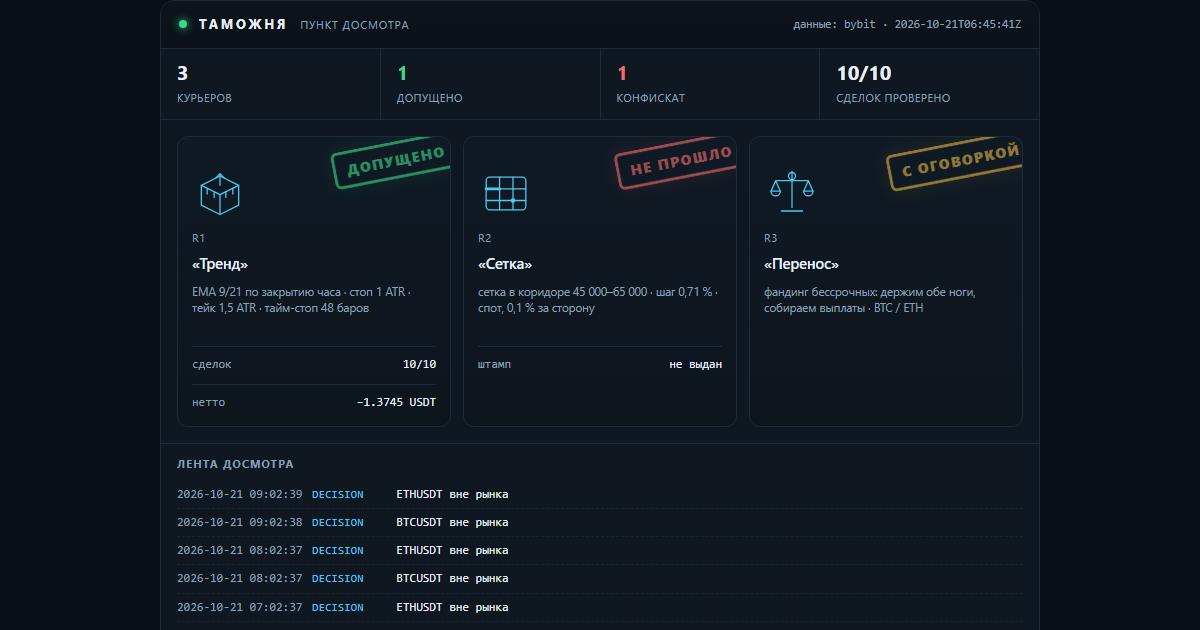
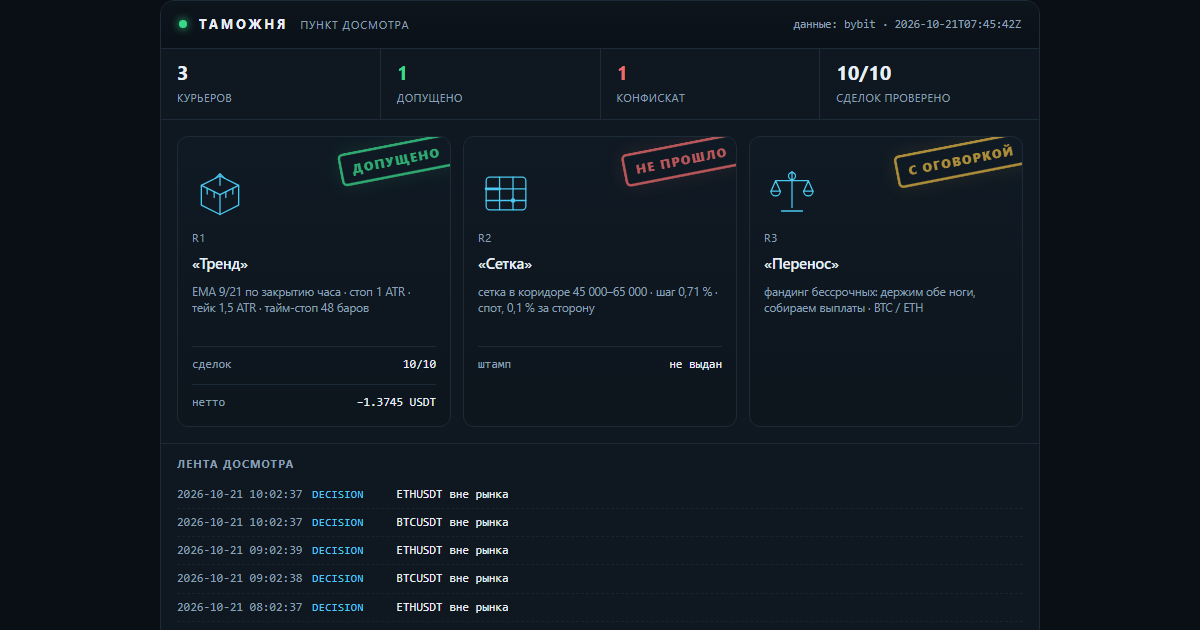
lab: таможня — свежие числа досмотра

Changed region(s): [[0.74, 0.2111, 0.8633, 0.3016], [0.4933, 0.2111, 0.6167, 0.3016], [0.2775, 0.2111, 0.37, 0.3016]]

diff --git a/docs/customs.html b/docs/customs.html
@@ -16,7 +16,7 @@
   <h1><a href="index.html">Gramwright Lab</a></h1>
   <p>Журнал проверки торговых гипотез: что проверяли, что вышло по факту, сколько съели издержки. Числа берутся из журнала стенда. Не инвестиционная рекомендация.</p>
 </header>
-<h1>Таможня</h1><p class="intro">Пункт досмотра заявленных результатов. Стратегии приезжают с грузом обещаний, и каждая проходит проверку по публичным данным биржи: цены существуют, комиссии по тарифу, нетто сходится. Что прошло — получает штамп. Что не прошло — в конфискат, с причиной. Штамп означает «записи подлинные», а не «стратегия прибыльна».</p><p><img src="img/customs.png" alt="Терминал досмотра: три курьера, штампы, лента событий" style="width:100%;height:auto;border:1px solid var(--line);border-radius:10px"></p><p class="c-note">Сверху — тот же терминал, что собирается из журналов: счётчики, эмблемы курьеров, штампы и лента последних событий. Ниже — то же самое текстом, чтобы читалось с телефона и индексировалось поиском.</p><article><h2>R1 «Тренд» <span class="verdict">— <span class="c-ok">допущено</span></span></h2><p><strong>Правило:</strong> EMA 9/21 по закрытию часа · стоп 1 ATR · тейк 1,5 ATR · тайм-стоп 48 баров</p><p><strong>Декларация:</strong> Заявлено до прогона: держать 30 сделок, лимит нотионала 10 % от счёта, стоп дня −1 %. Прибыль не заявлялась — это важно: курьер не обещал доход.</p><p><strong>Проверено по публичным свечам, без ключей:</strong> 10 из 10 сделок. Сумма нетто −1.3745 USDT.</p><ul class="c-chk"><li class="y">BTCUSDT: нетто −0.8746 USDT · комиссии 0.0901 · проверено · с поправкой</li><li class="y">BTCUSDT: нетто −0.5441 USDT · комиссии 0.0896 · проверено</li><li class="y">ETHUSDT: нетто −0.2253 USDT · комиссии 0.0266 · проверено</li><li class="y">ETHUSDT: нетто −0.1513 USDT · комиссии 0.0265 · проверено</li><li class="y">ETHUSDT: нетто +0.1984 USDT · комиссии 0.0262 · проверено</li><li class="y">ETHUSDT: нетто +0.1617 USDT · комиссии 0.0260 · проверено</li><li class="y">ETHUSDT: нетто +0.2645 USDT · комиссии 0.0263 · проверено</li><li class="y">BTCUSDT: нетто +0.6246 USDT · комиссии 0.0897 · проверено</li><li class="y">BTCUSDT: нетто −0.5881 USDT · комиссии 0.0910 · проверено</li><li class="y">ETHUSDT: нетто −0.2403 USDT · комиссии 0.0270 · проверено</li></ul><p class="tags">журнал sha256 15f0e2ad50e50fe0… · проверяльщик verify-1</p><p class="c-note">Штамп означает: записи подлинные, а не что стратегия прибыльна. Курьер в минусе, и минус тоже стоит на штампе — иначе это была бы не проверка, а реклама.</p><p class="tags">источник: verify-report.json</p></article><article><h2>R2 «Сетка» <span class="verdict">— <span class="c-bad">не прошло</span></span></h2><p><strong>Правило:</strong> сетка в коридоре 45 000–65 000 · шаг 0,71 % · спот, 0,1 % за сторону</p><p><strong>Декларация:</strong> Заявлено: «44 % урожая уходит бирже в виде комиссий». Кроме того — перевес над простым владением монетой.</p><p><strong>Что сошлось:</strong></p><ul class="c-chk"><li class="y">сами числа пересчитаны и воспроизводятся: коридор 45–65k был активен 23 % всей истории и 28 % последних двух лет</li></ul><p><strong>Что не сошлось:</strong></p><ul class="c-chk"><li class="n">44 % не подтвердилось: при шаге 0,71 % и тарифе 0,1 % комиссия съедает 28,3 % шага. Чтобы получить 44 %, нужен шаг 0,45 % — это около 80 уровней, а не 50</li><li class="n">от урожая доля комиссий 85,5 % за всю историю и 49,6 % за последние два года — тоже не 44 %</li><li class="n">перевес над владением посчитан на тарифе 0,055 %: при нём +1,32 п. п., на розничном 0,1 % — −0,72 п. п. То есть перевес исчезает</li><li class="n">семилетний тест стартовал в сентябре 2019 при биткоине около 10 000 — ниже коридора. Он говорит, что фиксированный коридор не подходит для периода, а не что сетка отстаёт</li></ul><p class="tags">источник: lab_grid.py, пересчёт 17.10.2026</p></article><article><h2>R3 «Перенос» <span class="verdict">— <span class="c-warn">с оговоркой</span></span></h2><p><strong>Правило:</strong> фандинг бессрочных: держим обе ноги, собираем выплаты · BTC / ETH</p><p><strong>Декларация:</strong> Заявлено: около 11,9 % в год от выплат фандинга при просадке выплатной кривой меньше 2 %.</p><p><strong>Что сошлось:</strong></p><ul class="c-chk"><li class="y">выплаты взяты из публичной истории биржи, ключей не нужно: BTC — 7 190 выплат с 25.03.2020, ETH — 6 561 с 21.10.2020</li><li class="y">сумма сходится: +83,4 % и +83,2 % за 6,6 и 6,0 года — те самые ~11,9 % в год</li><li class="y">худшая просадка выплатной кривой: −1,65 % и −1,97 %</li></ul><p><strong>Что не сошлось:</strong></p><ul class="c-chk"><li class="n">оговорка 1: премию сжали — 2021 год дал +38,3 %, 2026 — +1,96 %. Прошлое не повторяется</li><li class="n">оговорка 2: вход-выход стоит около 0,31 %, капитала нужно 1,2 от нотионала, текущий базис −0,082 % против входа</li><li class="n">оговорка 3: риск площадки. История FTX в этой же таблице выглядела так же прилично</li></ul><p class="tags">источник: публичная история фандинга Bybit, замер 17.10.2026</p></article><div class="c-conf"><h3>Конфискат</h3><p><strong>«Сетка»: заявленные 44 % комиссий не подтвердились.</strong> Досмотр показал 28,3 % от шага и 85,5 % от урожая — цифра хуже заявленной по форме, но лучше по смыслу: сетку убивает не размер шага, а то, что урожай почти весь уходит в комиссии. Это и вышло в выпуск — с поправкой, а не с красивой цифрой.</p></div><p class="c-note">Пломба: <code>2026-10-21T06:45:41Z</code> · нотариус FreeTSA · Oct 21 06:45:40 2026 GMT · подпись подтверждена. Манифест скрепляет отчёт проверки, журнал сделок и декларации курьеров: подменишь любую цифру — пломба перестанет сходиться.</p><p class="c-note">Досмотр идёт по публичным минутным свечам и публичной истории фандинга — ключей у проверяющего нет, и он может повторить проверку сам.</p><p class="c-note">Контент образовательный, не является инвестиционной рекомендацией. Торговля связана с риском потери капитала.</p>
+<h1>Таможня</h1><p class="intro">Пункт досмотра заявленных результатов. Стратегии приезжают с грузом обещаний, и каждая проходит проверку по публичным данным биржи: цены существуют, комиссии по тарифу, нетто сходится. Что прошло — получает штамп. Что не прошло — в конфискат, с причиной. Штамп означает «записи подлинные», а не «стратегия прибыльна».</p><p><img src="img/customs.png" alt="Терминал досмотра: три курьера, штампы, лента событий" style="width:100%;height:auto;border:1px solid var(--line);border-radius:10px"></p><p class="c-note">Сверху — тот же терминал, что собирается из журналов: счётчики, эмблемы курьеров, штампы и лента последних событий. Ниже — то же самое текстом, чтобы читалось с телефона и индексировалось поиском.</p><article><h2>R1 «Тренд» <span class="verdict">— <span class="c-ok">допущено</span></span></h2><p><strong>Правило:</strong> EMA 9/21 по закрытию часа · стоп 1 ATR · тейк 1,5 ATR · тайм-стоп 48 баров</p><p><strong>Декларация:</strong> Заявлено до прогона: держать 30 сделок, лимит нотионала 10 % от счёта, стоп дня −1 %. Прибыль не заявлялась — это важно: курьер не обещал доход.</p><p><strong>Проверено по публичным свечам, без ключей:</strong> 10 из 10 сделок. Сумма нетто −1.3745 USDT.</p><ul class="c-chk"><li class="y">BTCUSDT: нетто −0.8746 USDT · комиссии 0.0901 · проверено · с поправкой</li><li class="y">BTCUSDT: нетто −0.5441 USDT · комиссии 0.0896 · проверено</li><li class="y">ETHUSDT: нетто −0.2253 USDT · комиссии 0.0266 · проверено</li><li class="y">ETHUSDT: нетто −0.1513 USDT · комиссии 0.0265 · проверено</li><li class="y">ETHUSDT: нетто +0.1984 USDT · комиссии 0.0262 · проверено</li><li class="y">ETHUSDT: нетто +0.1617 USDT · комиссии 0.0260 · проверено</li><li class="y">ETHUSDT: нетто +0.2645 USDT · комиссии 0.0263 · проверено</li><li class="y">BTCUSDT: нетто +0.6246 USDT · комиссии 0.0897 · проверено</li><li class="y">BTCUSDT: нетто −0.5881 USDT · комиссии 0.0910 · проверено</li><li class="y">ETHUSDT: нетто −0.2403 USDT · комиссии 0.0270 · проверено</li></ul><p class="tags">журнал sha256 c792aabbdc803f97… · проверяльщик verify-1</p><p class="c-note">Штамп означает: записи подлинные, а не что стратегия прибыльна. Курьер в минусе, и минус тоже стоит на штампе — иначе это была бы не проверка, а реклама.</p><p class="tags">источник: verify-report.json</p></article><article><h2>R2 «Сетка» <span class="verdict">— <span class="c-bad">не прошло</span></span></h2><p><strong>Правило:</strong> сетка в коридоре 45 000–65 000 · шаг 0,71 % · спот, 0,1 % за сторону</p><p><strong>Декларация:</strong> Заявлено: «44 % урожая уходит бирже в виде комиссий». Кроме того — перевес над простым владением монетой.</p><p><strong>Что сошлось:</strong></p><ul class="c-chk"><li class="y">сами числа пересчитаны и воспроизводятся: коридор 45–65k был активен 23 % всей истории и 28 % последних двух лет</li></ul><p><strong>Что не сошлось:</strong></p><ul class="c-chk"><li class="n">44 % не подтвердилось: при шаге 0,71 % и тарифе 0,1 % комиссия съедает 28,3 % шага. Чтобы получить 44 %, нужен шаг 0,45 % — это около 80 уровней, а не 50</li><li class="n">от урожая доля комиссий 85,5 % за всю историю и 49,6 % за последние два года — тоже не 44 %</li><li class="n">перевес над владением посчитан на тарифе 0,055 %: при нём +1,32 п. п., на розничном 0,1 % — −0,72 п. п. То есть перевес исчезает</li><li class="n">семилетний тест стартовал в сентябре 2019 при биткоине около 10 000 — ниже коридора. Он говорит, что фиксированный коридор не подходит для периода, а не что сетка отстаёт</li></ul><p class="tags">источник: lab_grid.py, пересчёт 17.10.2026</p></article><article><h2>R3 «Перенос» <span class="verdict">— <span class="c-warn">с оговоркой</span></span></h2><p><strong>Правило:</strong> фандинг бессрочных: держим обе ноги, собираем выплаты · BTC / ETH</p><p><strong>Декларация:</strong> Заявлено: около 11,9 % в год от выплат фандинга при просадке выплатной кривой меньше 2 %.</p><p><strong>Что сошлось:</strong></p><ul class="c-chk"><li class="y">выплаты взяты из публичной истории биржи, ключей не нужно: BTC — 7 190 выплат с 25.03.2020, ETH — 6 561 с 21.10.2020</li><li class="y">сумма сходится: +83,4 % и +83,2 % за 6,6 и 6,0 года — те самые ~11,9 % в год</li><li class="y">худшая просадка выплатной кривой: −1,65 % и −1,97 %</li></ul><p><strong>Что не сошлось:</strong></p><ul class="c-chk"><li class="n">оговорка 1: премию сжали — 2021 год дал +38,3 %, 2026 — +1,96 %. Прошлое не повторяется</li><li class="n">оговорка 2: вход-выход стоит около 0,31 %, капитала нужно 1,2 от нотионала, текущий базис −0,082 % против входа</li><li class="n">оговорка 3: риск площадки. История FTX в этой же таблице выглядела так же прилично</li></ul><p class="tags">источник: публичная история фандинга Bybit, замер 17.10.2026</p></article><div class="c-conf"><h3>Конфискат</h3><p><strong>«Сетка»: заявленные 44 % комиссий не подтвердились.</strong> Досмотр показал 28,3 % от шага и 85,5 % от урожая — цифра хуже заявленной по форме, но лучше по смыслу: сетку убивает не размер шага, а то, что урожай почти весь уходит в комиссии. Это и вышло в выпуск — с поправкой, а не с красивой цифрой.</p></div><p class="c-note">Пломба: <code>2026-10-21T07:45:42Z</code> · нотариус FreeTSA · Oct 21 07:45:41 2026 GMT · подпись подтверждена. Манифест скрепляет отчёт проверки, журнал сделок и декларации курьеров: подменишь любую цифру — пломба перестанет сходиться.</p><p class="c-note">Досмотр идёт по публичным минутным свечам и публичной истории фандинга — ключей у проверяющего нет, и он может повторить проверку сам.</p><p class="c-note">Контент образовательный, не является инвестиционной рекомендацией. Торговля связана с риском потери капитала.</p>
 <footer class="site">
   Код стенда и аудитора: <a href="https://github.com/XSlaidx/truth-engine">XSlaidx/truth-engine</a>
   &middot; <a href="graveyard.html">кладбище правил</a>
